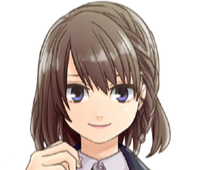
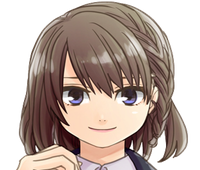
XSS対応・キャラクター強化

diff --git a/upallnight/js/main.js b/upallnight/js/main.js
@@ -5,9 +5,21 @@ $(function() {
   let setId = '#allCharacter';
   let fadeTime = 1000;
   let delayTime = 5000;
-  let storage = localStorage;
+  let yourName = escapeHtml(localStorage.name);
 
-$("#yourName").text(storage.name);
+  function escapeHtml(str) {
+    if(str == null || str == ""){
+      return "ひろし";
+    }
+	    str = str.replace(/&/g, '&amp;');
+	    str = str.replace(/</g, '&lt;');
+	    str = str.replace(/>/g, '&gt;');
+	    str = str.replace(/"/g, '&quot;');
+	    str = str.replace(/'/g, '&#39;');
+	    return str;
+	}
+
+$("#yourName").text(yourName);
 
   // キャラクター表示処理
   function showCharacter(index) {
@@ -15,11 +27,11 @@ $("#yourName").text(storage.name);
       case 0:
         $(setId + " #selectedCharacter .character").find("img")
           .attr({
-            "src": "./img/shujinko.jpg",
+            "src": "./img/shujinko.png",
             "alt": "主人公の画像"
           });
         $(setId + " #selectedCharacter .character").find("p")
-          .html("・"+storage.name+"<br>高校2年生<br>人に流されやすい性格<br>人に言われるがまま行動することが当たり前になっている<br>BL漫画が好き<br><br>");
+          .html("・"+yourName+"<br>高校2年生<br>人に流されやすい性格<br>人に言われるがまま行動することが当たり前になっている<br>BL漫画が好き<br><br>");
         break;
       case 1:
         $(setId + " #selectedCharacter .character").find("img")
@@ -28,25 +40,25 @@ $("#yourName").text(storage.name);
             "alt": "主人公の画像"
           });
         $(setId + " #selectedCharacter .character").find("p")
-          .html("・鏡の中の自分<br>突然鏡の中に現れ、自立して話しかけてくる<br>嫌味ったらしい性格<br>"+storage.name+"に苦言を呈してくるが、<br>心を読んでいるかのような、的確な指摘をしてくる<br><br>");
+          .html("・鏡の中の自分<br>突然鏡の中に現れ、自立して話しかけてくる<br>嫌味ったらしい性格<br>"+yourName+"に苦言を呈してくるが、<br>心を読んでいるかのような、的確な指摘をしてくる<br><br>");
         break;
       case 2:
         $(setId + " #selectedCharacter .character").find("img")
           .attr({
-            "src": "./img/cutegirl.jpg",
+            "src": "./img/cutegirl.png",
             "alt": "主人公の画像"
           });
         $(setId + " #selectedCharacter .character").find("p")
-          .html("・ヒロイン(みき)<br>"+storage.name+"が気になっている子<br>クラス一の美少女<br>大人しい性格だが、自分の意思をしっかり持っている<br>");
+          .html("・ヒロイン(みき)<br>"+yourName+"が気になっている子<br>クラス一の美少女<br>大人しい性格だが、自分の意思をしっかり持っている<br>");
         break;
       case 3:
         $(setId + " #selectedCharacter .character").find("img")
           .attr({
-            "src": "./img/friend.jpg",
+            "src": "./img/friend.png",
             "alt": "主人公の画像"
           });
         $(setId + " #selectedCharacter .character").find("p")
-          .html("・キテラ<br>"+storage.name+"の友人<br>長身・でぶ<br>自分の欲望に忠実な男<br>ある日、近所の祠を不注意で壊してから、<br>不審な行動に出るように…<br>");
+          .html("・キテラ<br>"+yourName+"の友人<br>長身・でぶ<br>自分の欲望に忠実な男<br>ある日、近所の祠を不注意で壊してから、<br>不審な行動に出るように…<br>");
         break;
     }
   }
@@ -101,7 +113,7 @@ $("#yourName").text(storage.name);
   }, 4000);
 
   setTimeout(function() {
-    $("#opText1").text("「こんにちは、" + storage.name + "くん」");
+    $("#opText1").text("「こんにちは、" + yourName + "くん」");
   }, 0);
 
   setTimeout(function() {
@@ -143,6 +155,7 @@ $("#yourName").text(storage.name);
     $("#mainContents").fadeIn();
   }, 11500);
 
+
   // Top Pageアイコン表示処理
   var topBtn = $('#page-top');
   topBtn.hide();
@@ -154,6 +167,7 @@ $("#yourName").text(storage.name);
       topBtn.fadeOut();
     }
   });
+
   //スクロールしてトップ
   topBtn.click(function() {
     $('body,html').animate({
@@ -161,4 +175,6 @@ $("#yourName").text(storage.name);
     }, 500);
     return false;
   });
+
+
 });

diff --git a/upallnight/css/main.css b/upallnight/css/main.css
@@ -225,6 +225,8 @@ section {
   justify-content: space-between;
   align-items: center;
   margin-bottom: 3%;
+  background: url("../img/back2.jpg") no-repeat;
+  background-position: center;
 }
 
 .character img {
@@ -233,14 +235,14 @@ section {
 }
 
 .character p {
-  background: url("../img/back2.jpg") no-repeat;
+
   margin-left: 5vw;
   width: 50vw;
 }
 
 #cnav {
-  width: 100%;
-  margin: 0 5%;
+  width: 80%;
+  margin: 0 auto;
 }
 
 #cnav ul {
@@ -256,6 +258,7 @@ section {
 #cnav ul li a {
   display: block;
   width: 100%;
+  text-align: center;
 }
 
 #cnav ul li.active {
